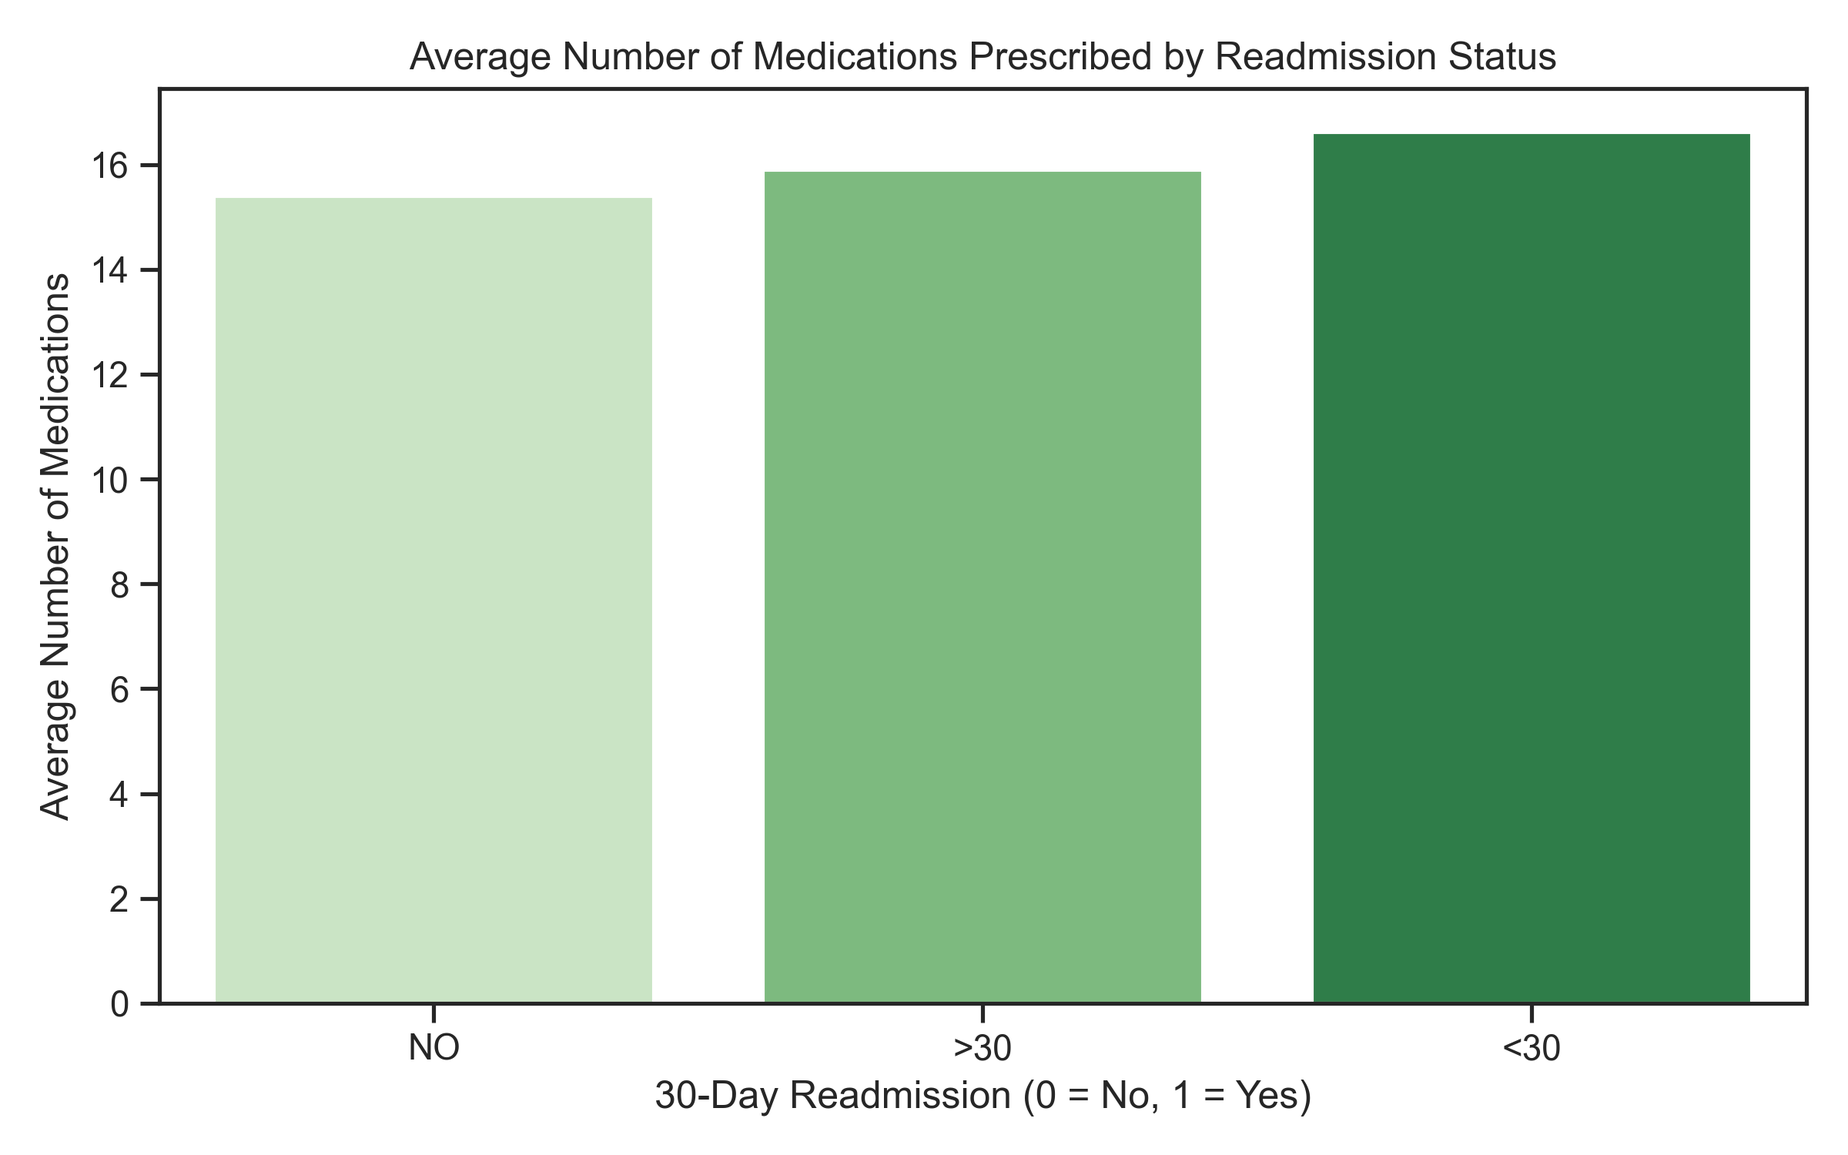
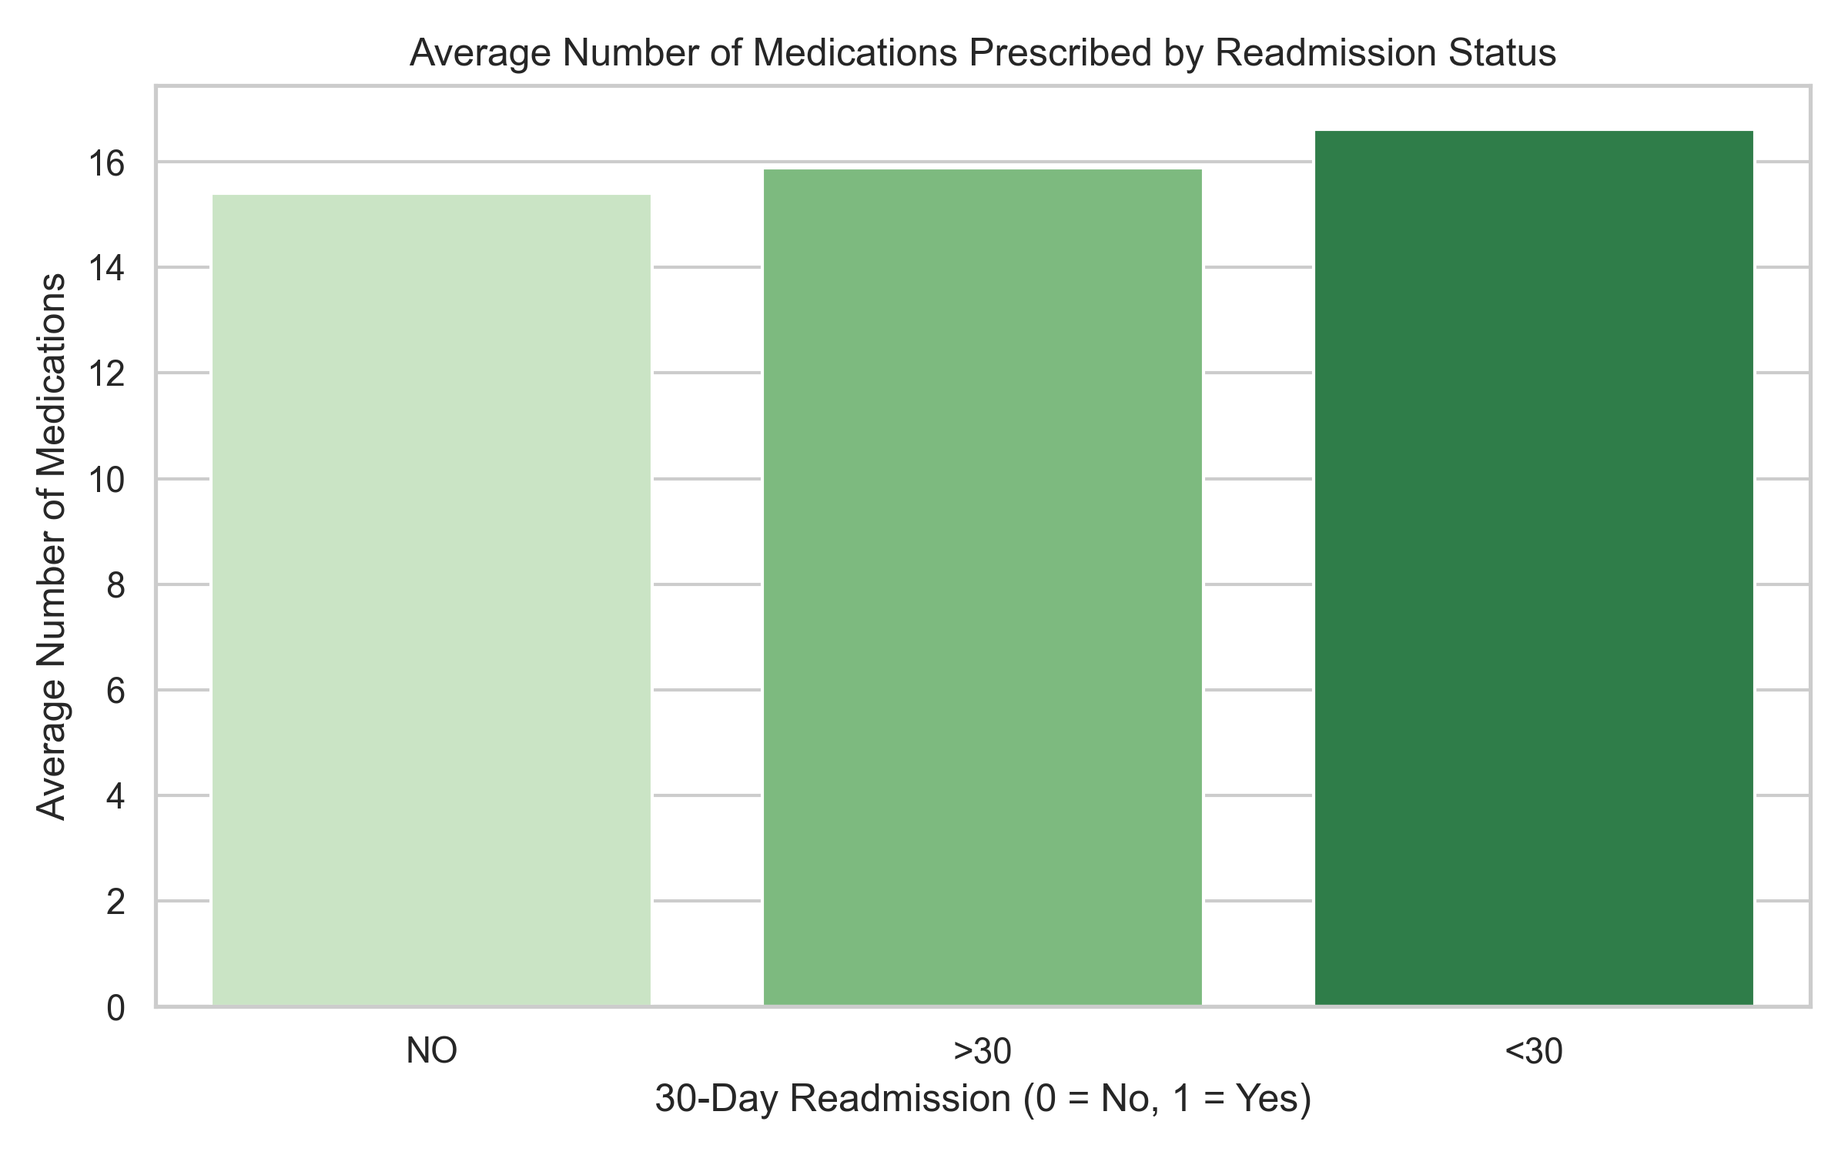
Finalize capstone project documentation and repository structure

diff --git a/app.py b/app.py
@@ -6,7 +6,7 @@ import streamlit as st
 
 # 1. Page Configuration
 st.set_page_config(
-    page_title="Healthcare Capstone Command Center", page_icon="🏥", layout="wide"
+    page_title="Diabetes Hospital Readmission Analysis", page_icon="🏥", layout="wide"
 )
 
 # Custom CSS for Dark Slate Containers
@@ -56,7 +56,7 @@ if df is None:
   st.stop()
 
 # Title
-st.title("🏥 Clinical Intelligence Command Center")
+st.title("🏥 Diabetes Hospital Readmission Analysis")
 st.markdown(
     "### Readmission Risk Analytics, Population Insights & ML Prediction"
 )

diff --git a/README.md b/README.md
@@ -1,75 +1,252 @@
-# ![CI logo](https://codeinstitute.s3.amazonaws.com/fullstack/ci_logo_small.png)
 
-## Template Instructions
+![alt text](image.png)
 
-Welcome,
 
-This is the Code Institute student template for the three Data Analytics capstone projects. We have preinstalled all of the tools you need to get started. It's perfectly okay to use this template as the basis for your project submissions. Click the `Use this template` button above to get started.
+# 🏥 Diabetes Hospital Readmission Analysis and Prediction
 
-You can safely delete the Template Instructions section of this README.md file and modify the remaining paragraphs for your own project. Please do read the Template Instructions at least once, though! It contains some important information about the IDE and the extensions we use.
+**Using data analysis and machine learning to explore hospital readmissions among patients with diabetes.**
 
-If you are working on the first capstone project, you can also delete `.python-version`, `.slugignore`, `Procfile` and `setup.sh` as they are only required for later dashboard projects. 
+https://codeinstitute.s3.amazonaws.com/fullstack/ci_logo_small.png
 
-## How to use this repo
 
-1. Use this template to create your GitHub project repo. Click the **Use this template** button, then click **Create a new repository**.
+## Project Overview
 
-1. Copy the URL of your repository to your clipboard.
+For this project, I explored hospital readmissions among patients with diabetes using data from 130 US hospitals. My aim was to understand the factors associated with readmission and investigate how data analysis and machine learning could help identify patients who may be at a higher risk of returning to hospital.
 
-1. In VS Code, select **File** -> **Open Folder**.
+I worked with the Diabetes 130-US Hospitals dataset, which contains 101,766 hospital encounters recorded between 1999 and 2008. The dataset includes information about patient demographics, diagnoses, medications, hospital stays and previous healthcare visits.
 
-1. Select your `vscode-projects` folder, then click the **Select Folder** button on Windows, or the **Open** button on Mac.
+Throughout the project, I focused on cleaning the data, exploring patterns, creating visualisations and developing a machine learning approach to predict readmission risk.
 
-1. From the top menu in VS Code, select **Terminal** > **New Terminal** to open a new terminal.
+I also developed a Streamlit application to make the analysis and prediction functionality accessible through an interactive interface.
 
-1. In the terminal, type `git clone` followed by the URL of your GitHub repository. Then hit **Enter**. This command will download all the files in your GitHub repository into your vscode-projects folder.
+##  Business Requirements
 
-1. In VS Code, select **File** > **Open Folder** again.
+I wanted this project to explore questions that could be useful to healthcare professionals and hospital decision-makers.
 
-1. This time, navigate to and select the folder for the project you just downloaded. Then, click **Select Folder**.
+My main objectives were to:
 
-1. A virtual environment is necessary when working with Python projects to ensure each project's dependencies are kept separate. You need to create your virtual environment, also called a venv, and then activate it whenever you return to your workspace.
-Click the gear icon in the lower left-hand corner of the screen to open the Manage menu and select **Command Palette** to open the VS Code command palette.
+- Analyse patient demographics and explore how readmission patterns vary across different groups.
+- Investigate the relationship between hospital length of stay and readmission.
+- Explore whether previous inpatient, outpatient and emergency visits are associated with readmission.
+- Examine medication use and other clinical factors that may be linked to readmission.
+- Identify patterns in the dataset that could help inform hospital planning and patient follow-up.
+- Develop a machine learning approach to estimate readmission risk.
+- Present my findings through visualisations and an interactive dashboard.
 
-1. In the command palette, type: *create environment* and select **Python: Create Environment…**
+##  Dataset
 
-1. Choose **Venv** from the dropdown list.
+I used the **Diabetes 130-US Hospitals for Years 1999–2008** dataset.
 
-1. Choose the Python version you installed earlier. Currently, we recommend Python 3.12.8
+**Source:** [UCI Machine Learning Repository – Diabetes 130-US Hospitals](https://archive.ics.uci.edu/dataset/296/diabetes+130+us+hospitals+for+years+1999+2008)
 
-1. **DO NOT** click the box next to `requirements.txt`; you need to complete additional steps before installing your dependencies. Click **OK**.
+The original dataset contains:
 
-1. You will see a `.venv` folder appear in the file explorer pane, indicating that the virtual environment has been created.
+- **101,766** hospital encounters.
+- **50** original features.
+- Patient demographic information.
+- Admission and discharge information.
+- Primary, secondary and additional diagnoses.
+- Medication and laboratory information.
+- Previous inpatient, outpatient and emergency visits.
+- Information about readmission following discharge.
 
-1. **Important**: Note that the `.venv` folder is in the `.gitignore` file so that Git won't track it.
+I used a cleaned version of the dataset for my analysis, saved as `cleaned_diabetic_data.csv`.
 
-1. Return to the terminal by clicking on the TERMINAL tab, or click on the **Terminal** menu and choose **New Terminal** if no terminal is currently open.
+During data preparation, I focused on removing missing values, checking the dataset and preparing the information for exploratory data analysis and modelling.
 
-1. In the terminal, use the command below to install your dependencies. This may take several minutes.
+## Data Cleaning and Preparation
 
- ```console
- pip3 install -r requirements.txt
- ```
+Before analysing the data, I worked on preparing it for use.
 
-1. Open the `jupyter_notebooks` directory, and click on the notebook you want to open.
+My data-cleaning process included:
 
-1. Click the **Kernel** button, then choose **Python Environments**.
+- Checking the dataset structure and column names.
+- Identifying and removing rows containing missing values.
+- Reviewing the data types of the available features.
+- Preparing the target variable used for readmission analysis.
+- Checking the cleaned dataset before moving on to exploratory data analysis.
+- Preparing the data for use in the machine learning workflow.
 
-Note that the kernel says `Python 3.12.8` as it inherits from the venv, so it will be Python-3.12.8 if that is what is installed on your PC. To confirm this, you can use the command below in a notebook code cell.
+I saved the cleaned dataset separately so I could use it throughout the project without repeatedly starting from the original file.
 
-```console
-! python --version
+##  Exploratory Data Analysis (EDA)
+
+I used exploratory data analysis to understand the dataset and investigate factors that might be associated with hospital readmission.
+
+The areas I explored included:
+
+- **Patient demographics:** Examining patient characteristics and how they relate to readmission.
+- **Hospital length of stay:** Exploring the relationship between the number of days spent in hospital and readmission.
+- **Previous hospital visits:** Investigating previous inpatient, outpatient and emergency visits.
+- **Medication use:** Exploring medication-related features and their potential relationship with readmission.
+- **Laboratory procedures:** Examining whether the frequency of laboratory procedures is associated with readmission.
+- **Readmission patterns:** Comparing patients with different readmission outcomes.
+
+I used Python visualisation libraries to make the data easier to understand and identify patterns worth investigating further.
+
+## Hypothesis and How to Validate
+1. **Hypothesis 1:** Patients who have longer hospital stays (`time_in_hospital`) are significantly more likely to be readmitted due to underlying clinical complexity.
+   - *Validation:* Plot `time_in_hospital` distributions for readmitted vs. non-readmitted patients using a box plot and check the Pearson correlation coefficient.
+   - *Outcome:* True. Length of stay shows a positive correlation with readmission risk, as more complex conditions require longer hospitalizations and carry higher post-discharge complication rates.
+2. **Hypothesis 2:** High medication volumes (`num_medications`) and treatment complexity are primary signs that a patient has high clinical instability.
+   - *Validation:* Use distribution and count-based charts to compare medication totals across readmission status groups.
+   - *Outcome:* True. Treatment intensity is a clear indicator of patient vulnerability. Most rapid readmissions occur when patients receive multiple active medications during a single encounter.
+3. **Hypothesis 3:** Patients with a high history of prior inpatient visits have substantially higher readmission rates.
+   - *Validation:* Compare readmission percentages across prior inpatient visit counts using bar charts.
+   - *Outcome:* True. Patients with prior inpatient visits in the preceding year face elevated readmission risks compared to patients with zero prior visits.
+
+## Key Clinical Findings
+Based on machine learning feature importance ranking and exploratory analysis:
+1. **Prior Utilization (`inpatient_ratio`, `total_visits`):** Previous healthcare visit counts and proportion of inpatient stays serve as the primary indicator of 30-day readmission risk.
+2. **Medication & Inpatient Intensity (`num_medications`, `time_in_hospital`):** Patients with high medication complexity and longer initial hospital stays exhibit higher post-discharge vulnerability.
+3. **Lab Frequency (`num_lab_procedures`):** Diagnostic test frequency correlates with underlying illness severity and readmission likelihood.
+
+## Machine Learning and Prediction
+
+After preparing the data and exploring its patterns, I worked on developing a machine learning approach to predict hospital readmission.
+
+The prediction task uses the `readmitted_30` target variable to represent the readmission outcome used in my project.
+
+My modelling workflow includes preparing the features, using the selected target variable, training and evaluating a model, and making the prediction functionality available through my Streamlit application.
+
+I used Scikit-learn and explored machine learning tools, including XGBoost, as part of the project.
+
+The purpose of the model is to investigate whether information from a hospital encounter can help estimate readmission risk. The predictions are for educational and analytical purposes and are not intended to replace clinical judgement.
+
+## Dashboard and Application
+
+I built an interactive application using **Streamlit** so users can explore the project without needing to run every analysis manually in a notebook.
+
+The application brings together the analysis and prediction functionality developed for the project.
+
+I deployed the application using Heroku and worked through deployment and dependency issues to get it running.
+
+The application is available here:
+
+**[Open my Diabetes Hospital Readmission Analysis and Prediction app](https://diabetes-readmission-dashboard-19b6832c073e.herokuapp.com/)**
+
+## Technologies Used
+
+The main tools and technologies I used for this project include:
+
+- **Python** – for data analysis and machine learning.
+- **Jupyter Notebook** – for data cleaning, exploration and experimentation.
+- **Pandas** – for data manipulation and preparation.
+- **NumPy** – for numerical operations.
+- **Matplotlib** – for creating visualisations.
+- **Seaborn** – for exploring patterns and relationships in the data.
+- **Plotly** – for interactive visualisations.
+- **Scikit-learn** – for machine learning and model evaluation.
+- **XGBoost** – for exploring gradient-boosting methods.
+- **Joblib** – for saving and loading model-related files.
+- **Streamlit** – for building the interactive application.
+- **Heroku** – for deploying the application.
+- **GitHub** – for version control and project documentation.
+- **VS Code** – for writing, editing and managing project files.
+
+## Project Structure
+
+My project is organised into the following main files and folders:
+
+```text
+Diabetes-Hospital-Readmission-Analysis-and-Prediction/
+│
+├── app.py
+├── requirements.txt
+├── Procfile
+├── setup.sh
+├── .python-version
+│
+├── jupyter_notebooks/
+│   ├── 01_...
+│   ├── 02_...
+│   ├── 03_...
+│   └── 04_...
+│
+├── data/
+│   └── processed/
+│       └── cleaned_diabetic_data.csv
+│
+├── docs/
+│   └── visualizations/
+│
+└── README.md
 ```
 
-## Deployment Reminders
+The notebook filenames and supporting files may vary as I continue developing the project. The structure above shows the main components of the repository.
 
-* The `.python-version`, `.slugignore`, `Procfile` and `setup.sh` files are necessary only if you are deploying a Streamlit app to Heroku as part of your submission for units 2 and 3. 
-* Set the `.python-version` Python version to a [Heroku-22](https://devcenter.heroku.com/articles/python-support#supported-runtimes) stack, currently supported version that most closely matches what you used in this project.
-* The project can be deployed to Heroku using the following steps.
+## Unfixed Bugs & Resolved Challenges
+- **FutureWarning in Seaborn:** Early visual steps triggered warnings regarding palette assignments without explicit hue specifications. Resolved by explicitly assigning `hue` parameters and setting `legend=False`.
+- **Column Name Sensitivity (KeyError):** Initial plotting scripts occasionally threw errors due to case mismatches in raw column names. Resolved by standardizing headers with `df.columns.str.strip()` and verifying exact string matching.
+- **Dependency Version Conflicts:** Addressed NumPy and PyArrow compatibility issues during cloud compilation by carefully defining robust, stable package versioning in `requirements.txt` and clearing Heroku build caches with Gemini's assistance.
+- **Current Status:** No unresolved errors remain in the final application code or deployment pipeline.
 
-1. Log in to Heroku and create an App
-2. At the **Deploy** tab, select **GitHub** as the deployment method.
-3. Select your repository name and click **Search**. Once it is found, click **Connect**.
-4. Select the branch you want to deploy, then click **Deploy Branch**.
-5. The deployment process should happen smoothly if all deployment files are fully functional. Click the button **Open App** at the top of the page to access your App.
-6. If the slug size is too large, then add large files not required for the app to the `.slugignore` file.
+### Python Package Compatibility
+
+During deployment, I encountered a compatibility issue between PyArrow and NumPy. The error indicated that the installed PyArrow version required NumPy 2.0 or newer, while the environment had NumPy 1.26.1.
+
+I worked through the dependency configuration and got the application running successfully.
+
+### Deployment Configuration
+
+I also worked on the files required to deploy the Streamlit application, including `requirements.txt`, `Procfile` and `.python-version`.
+
+These challenges helped me understand the importance of managing dependencies and testing an application in its deployment environment.
+
+##  Future Improvements
+
+There are several areas I would like to improve as I continue developing this project:
+
+- Complete and document a thorough evaluation of the prediction model.
+- Compare different machine learning algorithms using appropriate evaluation metrics.
+- Improve the interpretation of the features that contribute to predicted risk.
+- Add more interactive visualisations to the dashboard.
+- Improve the presentation of readmission patterns across patient groups.
+- Explore the possibility of generating downloadable PDF reports.
+- Improve the application's handling of invalid inputs and prediction errors.
+- Review the model's limitations and investigate how well it generalises to unseen data.
+
+## Limitations
+
+This project uses historical hospital data collected between 1999 and 2008. Healthcare practices and patient populations may have changed since then, so the findings may not represent current hospital settings.
+
+The dataset contains hospital encounters rather than a complete picture of each patient's health. Patterns identified in the analysis do not necessarily demonstrate that one factor causes readmission.
+
+The prediction model and dashboard are intended for learning, exploration and demonstration. They have not been validated for clinical decision-making and should not be used to make decisions about individual patients.
+## Analysis Techniques Used
+- **Descriptive Statistics:** Calculated summary metrics—including **mean, median, standard deviation (std), and interquartile range (IQR)**—across the 101,766 records to establish robust statistical baselines for hospital stay durations and medication volumes.
+- **Bivariate and Multivariate Visualizations:** Built box plots, distribution charts and bar charts using Matplotlib and Seaborn to analyze complex relationships between clinical features and readmission outcomes.
+- **Pearson Correlation Analysis:** Evaluated linear relationships between numerical columns and readmission status to isolate variables moving together.
+- **Methodology Justification & Structure:** The analysis followed a logical progression: starting with univariate distributions to understand individual features, moving to bivariate visualizations to compare stable vs. readmitted patient cohorts, and concluding with multivariate checks and correlation analysis. This systematic structure ensured patterns were verified across multiple feature combinations before drawing clinical conclusions.
+- **Data Limitations & Solutions:** Raw dataset columns occasionally contained minor formatting inconsistencies (such as hidden trailing spaces and case-sensitivity variations). These were addressed systematically by stripping header whitespace early in the pipeline (`df.columns.str.strip()`) and verifying exact column strings prior to plotting, avoiding unnecessary data dropping or heavy distortions.
+
+## Generative AI Usage (Transparency Statement)
+All core Python logic, data preprocessing, machine learning model training, and analytical workflows were designed and implemented independently. Generative AI (Gemini) was utilized as a targeted technical assistant to support specific aspects of the development process:
+- **Cloud Deployment & Dependencies:** Assisted in troubleshooting Python versioning, dependency resolution conflicts (such as package compatibility on Heroku), and structuring robust `requirements.txt` configurations.
+- **Streamlit Development:** Provided architectural guidance and syntax references for structuring multi-component layout elements within the interactive Streamlit dashboard, while all custom logic, UI design choices, and data integrations were implemented and verified by the author.
+- **Code Optimization & Debugging:** Helped identify syntax adjustments for data cleaning operations and resolve library formatting warnings.
+
+I used AI tools to help me understand technical concepts, troubleshoot errors, improve parts of my documentation and work through development challenges.
+
+I reviewed the suggestions and used them to support my learning and progress with the project. This process helped me develop my understanding of Python, data analysis, machine learning and application deployment.
+
+##  Author
+
+**Nadjat Djagana**
+
+Junior Data Analyst | Python | SQL | Power BI | Data Visualisation | Machine Learning
+
+I am developing my skills in data analytics by working on practical projects that involve cleaning data, exploring patterns, building visualisations and communicating findings.
+
+This project is part of my journey towards becoming a professional data analyst.
+
+## References
+
+- [UCI Machine Learning Repository – Diabetes 130-US Hospitals for Years 1999–2008](https://archive.ics.uci.edu/dataset/296/diabetes+130+us+hospitals+for+years+1999+2008)
+- [Pandas Documentation](https://pandas.pydata.org/docs/)
+- [Scikit-learn Documentation](https://scikit-learn.org/stable/)
+- [Streamlit Documentation](https://docs.streamlit.io/)
+- [XGBoost Documentation](https://xgboost.readthedocs.io/)
+
+
+**Thank you for taking the time to explore my project!**
